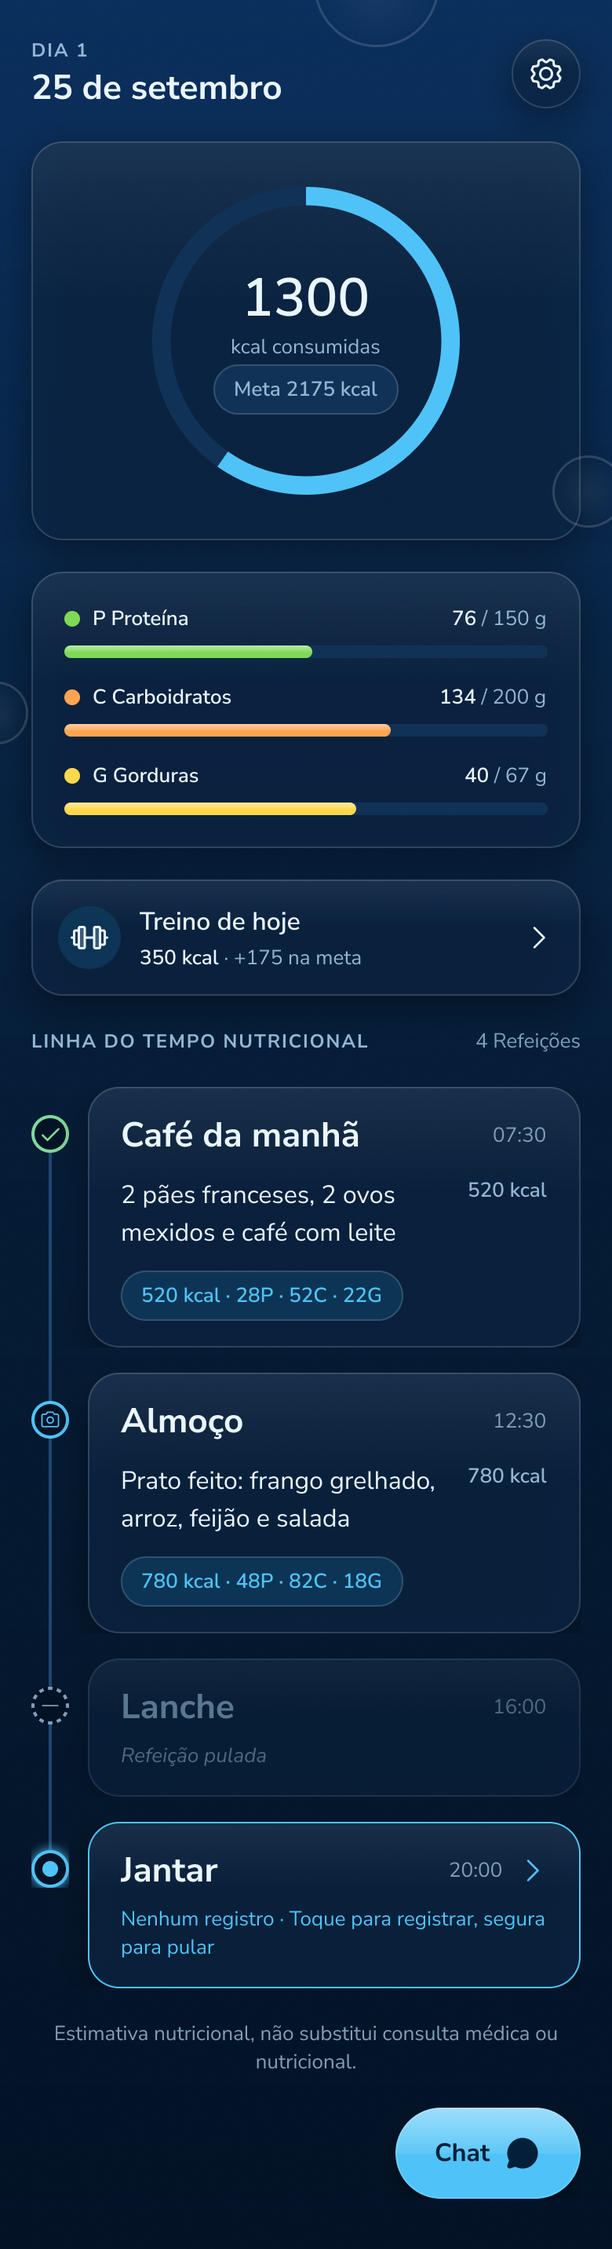
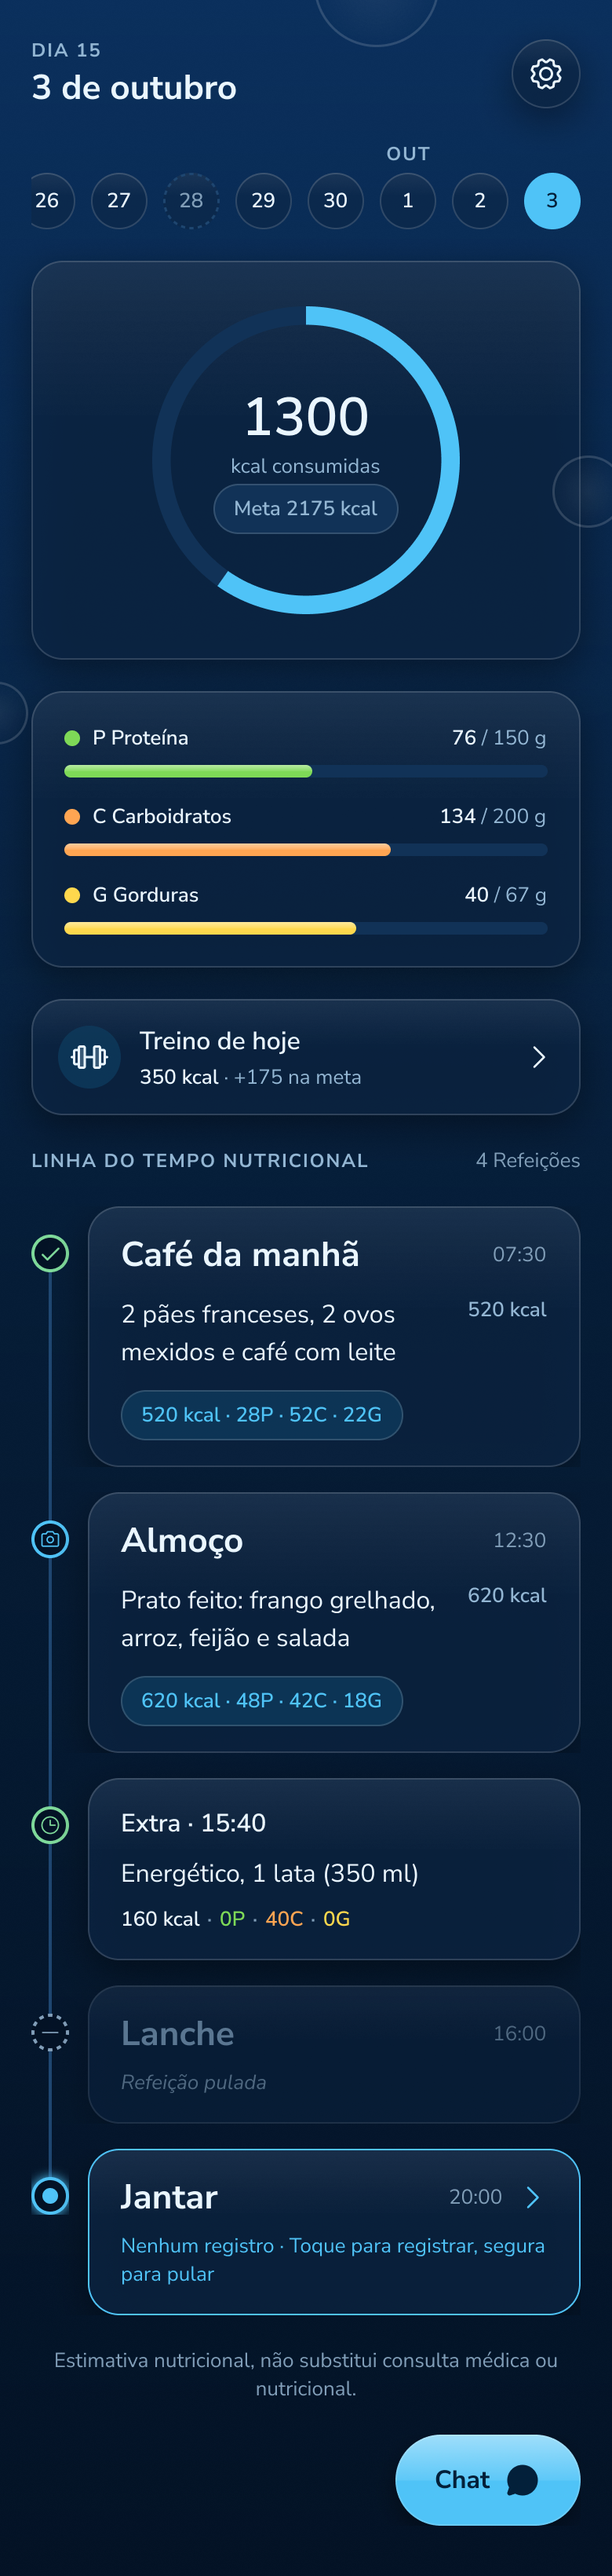
docs(design): D28 golds exported after the owner's OK
home1 moved to the Release 2 frames (day strip, extra); homeH, homeE and chatGX mapped,
exported and added to the inventory; plan completed; run report closed.

diff --git a/docs/design/validation/2026-10-09-d27-d28.md b/docs/design/validation/2026-10-09-d27-d28.md
@@ -6,10 +6,10 @@ Runbook: [autonomous-run.md](../../sdd/autonomous-run.md). Batch message of 09/1
 
 | # | Plan | End state | PR | Figma MCP calls |
 |---|---|---|---|---|
-| 1 | [D27](../plans/completed/d27-conversational-onboarding.md) — conversational onboarding (`ob0`–`ob6`) | `Concluído`: owner OK on the first round, 16 golds exported, `o1`–`o5` retired to `_legacy/` | [#223](https://github.com/nicolasteixeira3856/dieta-bot/pull/223) (frames), the D27 export PR | 13 of 110 |
-| 2 | [D28](../plans/pending_manual_validation/d28-home-extras-and-history.md) — Home day strip, past day and extras (`home1`, `homeH`, `homeE`, `chatGX`) | `Pendente aprovação manual`: 4 golds × 2 themes drawn, 8 review PNGs plus the components sent | see the D28 git delivery | 7 of 90 |
+| 1 | [D27](../plans/completed/d27-conversational-onboarding.md) — conversational onboarding (`ob0`–`ob6`) | `Concluído`: owner OK on the first round, 16 golds exported, `o1`–`o5` retired to `_legacy/` | [#223](https://github.com/nicolasteixeira3856/dieta-bot/pull/223) (frames), [#225](https://github.com/nicolasteixeira3856/dieta-bot/pull/225) (export) | 13 of 110 |
+| 2 | [D28](../plans/completed/d28-home-extras-and-history.md) — Home day strip, past day and extras (`home1`, `homeH`, `homeE`, `chatGX`) | `Concluído`: owner OK on the first round, 8 golds exported (`home1` replaced; `homeH`, `homeE`, `chatGX` new) | [#224](https://github.com/nicolasteixeira3856/dieta-bot/pull/224) (frames), the D28 export PR | 7 of 90 |
 
-Figma MCP calls of the day: 19 of 120 (no wakeup needed).
+Figma MCP calls of the day: 20 of 120 (19 for the frames, 1 to mark the Release 1 onboarding section retired after the OK); no wakeup needed.
 
 ## Evaluation and cost
 
@@ -19,8 +19,11 @@ No server plan, no model call, no deploy, no build. Review PNGs come from the RE
 
 Nothing. Decisions taken without the owner, all listed in the plans' discovery: D27 uses `accent/on` as the text colour on the status screens (no new token); D28 draws `home1` on `Release 2` (Release 1 frozen), adds a fifth `DayCircle` state `today` and uses the month abbreviation above the strip.
 
-## Owner actions
+## Owner review
 
-1. Review the section `Onboarding v2 · D27` on the `Release 2` page (and `Onboarding v2 · D27` on `Componentes`); answer `OK D27` or the fixes. Node ids per frame: the plan's Results.
-2. Review the section `Home history · D28` on the `Release 2` page (and `Home history · D28` on `Componentes`); answer `OK D28` or the fixes. Open point: `chatGX` shows the extra receipt; the `Extra` entry of the Trocar sheet exists in `Sheet/SlotList` (`Show extra`) with a specimen, but no gold draws the open sheet (that would be `chatT` redrawn, outside D28).
-3. After each OK the agent maps the ids in `tools/export-figma.mjs`, exports the golds (D27: `ob0`–`ob6` in, `o1`–`o5` to `_legacy`; D28: `homeH`, `homeE`, `chatGX` in, `home1` replaced), runs `check-figma` and `check-docs` and closes the plan.
+`OK D27` and `OK D28` on 09/10/2026, first round, no fixes ("Tudo aprovado, pode completar todos os planos e commitar"). Both plans exported and moved to `completed/`.
+
+## Follow-ups (not in these plans)
+
+1. [A71](../../android/plans/a71-conversational-onboarding.md) removes `GoldTest.o1*`–`o5*` and the O1–O5 captures (its scope 9); until then those JVM tests have no gold. [A72](../../android/plans/a72-extras-and-history.md) brings `GoldTest.home1_*` back to green and adds `homeH`, `homeE`, `chatGX`.
+2. Site: `npm --prefix web run screens:check` fails (the landing phone reads the retired `o1` and the old `home1`); a site plan has to choose the onboarding screen to show and re-cut the screens. `web/` was not touched.

diff --git a/docs/design/plans/completed/d28-home-extras-and-history.md b/docs/design/plans/completed/d28-home-extras-and-history.md
@@ -1,10 +1,10 @@
 # Plan — D28 Release 2: Home day strip, past day and extras
 
-- Status: Pendente aprovação manual
+- Status: Concluído
 - Date: 09/10/2026
 - Owning context: `design`
 - Affected code: none in `apps/` or `server/`. Figma `Design` → `Release 2` → section "Home history", new components in `Componentes`. Repository: `docs/qa/figma/{dark,light}/{home1,homeH,homeE,chatGX}.png` (`home1` redrawn, `homeH`, `homeE` and `chatGX` new), the "Home history" node ids in `tools/export-figma.mjs`.
-- Prerequisites: [D27](../completed/d27-conversational-onboarding.md) `Concluído` (one design plan at a time); [ADR-058](../../../produto/adrs/ADR-058-extras-and-history.md) accepted by this approval.
+- Prerequisites: [D27](d27-conversational-onboarding.md) `Concluído` (one design plan at a time); [ADR-058](../../../produto/adrs/ADR-058-extras-and-history.md) accepted by this approval.
 - Figma MCP budget: ≤ 90 calls (at most 120 a day, ADR-031 § 6).
 
 Authorization, lifecycle, cancellation and deferral: `docs/sdd/README.md`. Approval: `Aprovo o plano docs/design/plans/d28-home-extras-and-history.md. Implemente o plano aprovado.`
@@ -129,4 +129,19 @@ Fixes during the build (before the review): `homeH` macro values restored to the
    State cue of `today` (the `accent/default` ring on glass, WCAG 1.4.11): 4.47:1 Light, 7.29:1 Dark.
 4. Visual: one review PNG per frame (8) plus the components section, from the dry-run export, sent to the owner on 09/10/2026.
 
-Figma MCP budget: 7 of 90 calls (1 read, 6 writes, one of them a script that failed on a syntax error and was rolled back whole). Day total with D27: 19 of 120. Owner review pending.
+Figma MCP budget: 7 of 90 calls (1 read, 6 writes, one of them a script that failed on a syntax error and was rolled back whole). Day total with D27: 19 of 120.
+
+### Owner review
+
+**OK (09/10/2026)** on the first round, with no fixes ("Tudo aprovado, pode completar todos os planos e commitar"), covering the open points of the discovery: `chatGX` is the receipt (no gold of the open Trocar sheet), the fifth `today` state, the month abbreviation, `home1` on `Release 2`.
+
+### Export (09/10/2026)
+
+- `tools/export-figma.mjs`: `home1` moved to the Release 2 ids (`214:1384` Light, `215:1814` Dark); `homeH`, `homeE` and `chatGX` added (ids of the Build table). The Release 1 `home1` frames (`38:229`, `40:472`) stay in the file as history.
+- `node tools/export-figma.mjs --only home1,homeH,homeE,chatGX`: `home1` 780 × 2864 → 780 × 3280, `homeH` 780 × 3584, `homeE` 780 × 2812, `chatGX` 780 × 1804 (both themes).
+- Inventory of `docs/qa/README.md`: `homeH` and `homeE` after `homeP`, `chatGX` after `chatG`.
+- `node tools/check-figma.mjs`: 114 golds verified (57 dark + 57 light). `node tools/check-docs.mjs` passes.
+- **Hand-over to [A72](../../../android/plans/a72-extras-and-history.md):** the strip and the extra node above, the past day, `homeE`, the extra receipt and the `Show extra` row of the Trocar sheet (no gold of its own: A72 checks it on the emulator); the fifth `DayCircle` state `today` (today while a past day is selected) next to the four of A72 scope 4. Until A72, `GoldTest.home1_*` fails by design (the app has no strip and no extra) and `homeH`, `homeE`, `chatGX` have no `GoldTest` yet.
+- **Site:** `web/tools/build-screens.mjs` cuts the landing phone from the `home1` gold; `npm --prefix web run screens:check` reports it stale until a site plan re-cuts it (it already fails on the retired `o1`, see D27). `web/` untouched.
+
+Figma MCP budget: 7 of 90 calls in total (no call after the review: the export uses the REST API).

diff --git a/docs/produto/README.md b/docs/produto/README.md
@@ -93,6 +93,6 @@ Meal updates: D9 and A47 (history: [`completed/`](../design/plans/completed/), [
 
 Chat after the brainstorm of 07/10/2026 (`benchmark/MELHORIAS_CHAT_07_10_2026.md` § 5, benchmark `benchmark/RESULTADOS_08_10_2026.md`), in execution order: [S33](../server/plans/pending_manual_validation/s33-chat-context-effort-low.md) → [S34](../server/plans/pending_manual_validation/s34-protein-boost-hybrid.md) → A64 ([history](../android/plans/completed/)) → CP10 ([history](../content-policy/plans/completed/)) → S35 ([history](../server/plans/completed/)) → A65 ([history](../android/plans/completed/)) → [S36](../server/plans/pending_manual_validation/s36-typed-actions.md) → A66 ([history](../android/plans/completed/)) → [S37](../server/plans/pending_manual_validation/s37-plan-options-and-discovery.md) → A67 ([history](../android/plans/completed/)) → D23 ([history](../design/plans/completed/)) → [S38](../server/plans/pending_manual_validation/s38-saved-recipes.md) → A68 ([history](../android/plans/completed/)) → D24 ([history](../design/plans/completed/)) → A69 ([history](../android/plans/completed/)) (ADR-049 to ADR-055).
 
-Day 0 and history, brainstorm of 09/10/2026 (ADR-057, ADR-058), in execution order: S40 (eval personas, delivered: [history](../server/plans/completed/)) → D27 (delivered: [history](../design/plans/completed/)) → [S41](../server/plans/s41-onboarding-profile.md) → [A71](../android/plans/a71-conversational-onboarding.md) (conversational onboarding, absorbs [A56](../android/plans/out_of_scope/a56-goal-weight.md)) → [D28](../design/plans/pending_manual_validation/d28-home-extras-and-history.md) → [S42](../server/plans/s42-extras-and-other-day.md) → [A72](../android/plans/a72-extras-and-history.md) (extras and history, absorbs [A35](../android/plans/out_of_scope/a35-registro-retroativo.md)).
+Day 0 and history, brainstorm of 09/10/2026 (ADR-057, ADR-058), in execution order: S40 (eval personas, delivered: [history](../server/plans/completed/)) → D27 (delivered: [history](../design/plans/completed/)) → [S41](../server/plans/s41-onboarding-profile.md) → [A71](../android/plans/a71-conversational-onboarding.md) (conversational onboarding, absorbs [A56](../android/plans/out_of_scope/a56-goal-weight.md)) → D28 (delivered: [history](../design/plans/completed/)) → [S42](../server/plans/s42-extras-and-other-day.md) → [A72](../android/plans/a72-extras-and-history.md) (extras and history, absorbs [A35](../android/plans/out_of_scope/a35-registro-retroativo.md)).
 
 Protein-first plan, tone, formatting, planned meal and skips: S24 ([`completed/`](../server/plans/completed/), ADR-043); S30 ([`completed/`](../server/plans/completed/), server, ADR-044/045/046) and A60 ([history](../android/plans/completed/)) (app, ADR-039/044/045/046/047); its part E, the skips, by A59 ([history](../android/plans/completed/)); the auto-record defect A54 ([`completed/`](../android/plans/completed/)). Deferred by owner decision: goal weight, [A56](../android/plans/out_of_scope/a56-goal-weight.md).

diff --git a/docs/android/plans/a72-extras-and-history.md b/docs/android/plans/a72-extras-and-history.md
@@ -4,7 +4,7 @@
 - Date: 09/10/2026
 - Owning context: `android`
 - Affected code: `apps/android/` only: Room v17 (`meal_log.kind`, `meal_log.time`), the Home day strip and the past-day state, the timeline ordered by time with extra nodes, the Trocar sheet `Extra` entry, the extra and other-day receipts, `commitRecord` for a past date, the `extras` and `first_day` request fields, `recent`/`recent_days` with extras, the fake server fixtures, tests, captures. Documentation at Completion: [home-timeline](../../produto/specifications/home-timeline.md), [chat](../../produto/specifications/chat.md), [memoria-push](../../produto/specifications/memoria-push.md), [Room](../specifications/room-v2.md), [gold inventory](../../qa/README.md).
-- Prerequisites: [D28](../../design/plans/pending_manual_validation/d28-home-extras-and-history.md) `Concluído`; [S42](../../server/plans/s42-extras-and-other-day.md) on the dev server; [A71](a71-conversational-onboarding.md) merged (Room version order).
+- Prerequisites: [D28](../../design/plans/completed/d28-home-extras-and-history.md) `Concluído`; [S42](../../server/plans/s42-extras-and-other-day.md) on the dev server; [A71](a71-conversational-onboarding.md) merged (Room version order).
 - Related documentation: [ADR-058](../../produto/adrs/ADR-058-extras-and-history.md), [ADR-017](../../produto/adrs/ADR-017-registro-consolidado.md), [ADR-021](../../produto/adrs/ADR-021-refeicoes-por-dia.md), [ADR-028](../../produto/adrs/ADR-028-registro-autonomo.md), [ADR-040](../../produto/adrs/ADR-040-home-card-gestures-app-reset.md), [ADR-050](../../produto/adrs/ADR-050-typed-actions-per-message.md).
 
 Authorization and delivery follow [SDD](../../sdd/README.md). Approval: `Aprovo o plano docs/android/plans/a72-extras-and-history.md. Implemente o plano aprovado.`

diff --git a/docs/produto/adrs/ADR-058-extras-and-history.md b/docs/produto/adrs/ADR-058-extras-and-history.md
@@ -1,6 +1,6 @@
 # ADR-058 — Extras outside the meals; the last 30 days on the Home; recording another day
 
-- Status: Accepted (2026-10-09, owner approval of [D28](../../design/plans/pending_manual_validation/d28-home-extras-and-history.md) in the batch message; owner direction of 09/10/2026 in the brainstorm session)
+- Status: Accepted (2026-10-09, owner approval of [D28](../../design/plans/completed/d28-home-extras-and-history.md) in the batch message; owner direction of 09/10/2026 in the brainstorm session)
 - Date: 2026-10-09
 - Context: `produto`
 - Supersedes: partially [ADR-028](ADR-028-registro-autonomo.md) (decision 7: the Chat records only today's meals; from this ADR a named past day inside the last 30 days is recorded too); partially [ADR-017](ADR-017-registro-consolidado.md) (one record per meal stays for the slots; an extra is one record per item and is never consolidated); partially [ADR-021](ADR-021-refeicoes-por-dia.md) (rule 7: logs without a slot of the day are "Outros" only when they belong to a removed or foreign slot; a log recorded as an extra has its own kind). Reactivates [A35](../../android/plans/out_of_scope/a35-registro-retroativo.md) inside this decision.

diff --git a/docs/design/plans/README.md b/docs/design/plans/README.md
@@ -183,7 +183,7 @@ Behavior: [ADR-057](../../produto/adrs/ADR-057-conversational-onboarding.md), [A
 | Design | D27 — conversational onboarding (`ob0`–`ob6`; `o1`–`o5` retired), delivered ([history](completed/)) | D26, ADR-057 accepted |
 | Server | [S41](../../server/plans/s41-onboarding-profile.md) — `POST /v1/profile` | S40 |
 | Client | [A71](../../android/plans/a71-conversational-onboarding.md) — conversational onboarding in the app | D27, S41 on dev, A70 merged |
-| Design | [D28](pending_manual_validation/d28-home-extras-and-history.md) — Home day strip, past day and extras (`home1` redrawn, `homeH`, `homeE`, `chatGX`), frames drawn, owner review pending | D27, ADR-058 accepted |
+| Design | D28 — Home day strip, past day and extras (`home1` redrawn, `homeH`, `homeE`, `chatGX`), delivered ([history](completed/)) | D27, ADR-058 accepted |
 | Server | [S42](../../server/plans/s42-extras-and-other-day.md) — extras and a record in a named past day | S40 |
 | Client | [A72](../../android/plans/a72-extras-and-history.md) — extras, the strip and the past-day record | D28, S42 on dev, A71 |
 

diff --git a/docs/qa/README.md b/docs/qa/README.md
@@ -20,9 +20,9 @@ Inventário oficial: dono único da lista de golds, igual nos dois temas. O gold
 
 ```text
 splash.png · ob0.png · ob1.png · ob1e.png · ob2.png · ob3.png · ob4.png · ob5.png · ob6.png
-home0.png · home1.png · homeX.png · homeW.png · homeC.png · homeK.png · homeP.png
+home0.png · home1.png · homeX.png · homeW.png · homeC.png · homeK.png · homeP.png · homeH.png · homeE.png
 chat0.png · chatL.png · chatQ.png · chatE.png · chatT.png · chatP.png · chatX.png · chatCP.png · chatCC.png
-chatF.png · chatG.png · chatA.png · chatR.png · chatM.png · chatS.png · chatU.png · chatD.png
+chatF.png · chatG.png · chatGX.png · chatA.png · chatR.png · chatM.png · chatS.png · chatU.png · chatD.png
 chatRK.png · chatRB.png · chatRL.png · chatSK.png · chatSD.png
 chatI.png · chatIC.png · chatTI.png
 cfg.png · cfgS.png · wipe.png · cfgR.png · cfgT.png · push.png

diff --git a/docs/design/README.md b/docs/design/README.md
@@ -53,7 +53,6 @@ Status: the status line of each ADR.
 
 Active: the files at the root of [`plans/`](plans/). Execution order and dependencies: [plans/README.md](plans/README.md).
 
-- Pending manual validation (owner review in Figma): [`plans/pending_manual_validation/`](plans/pending_manual_validation/).
 - Completed: [`plans/completed/`](plans/completed/).
 
 ### Validation
